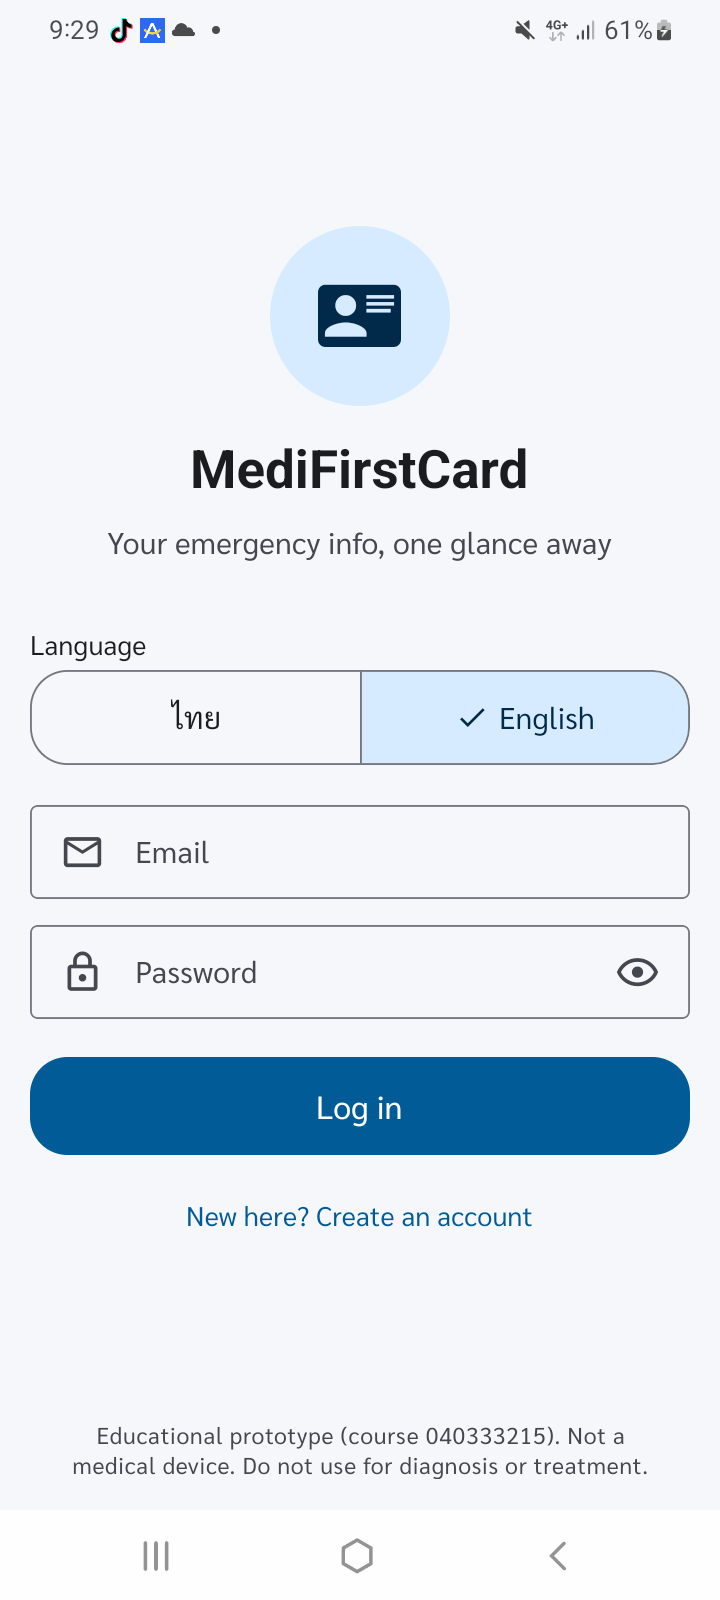
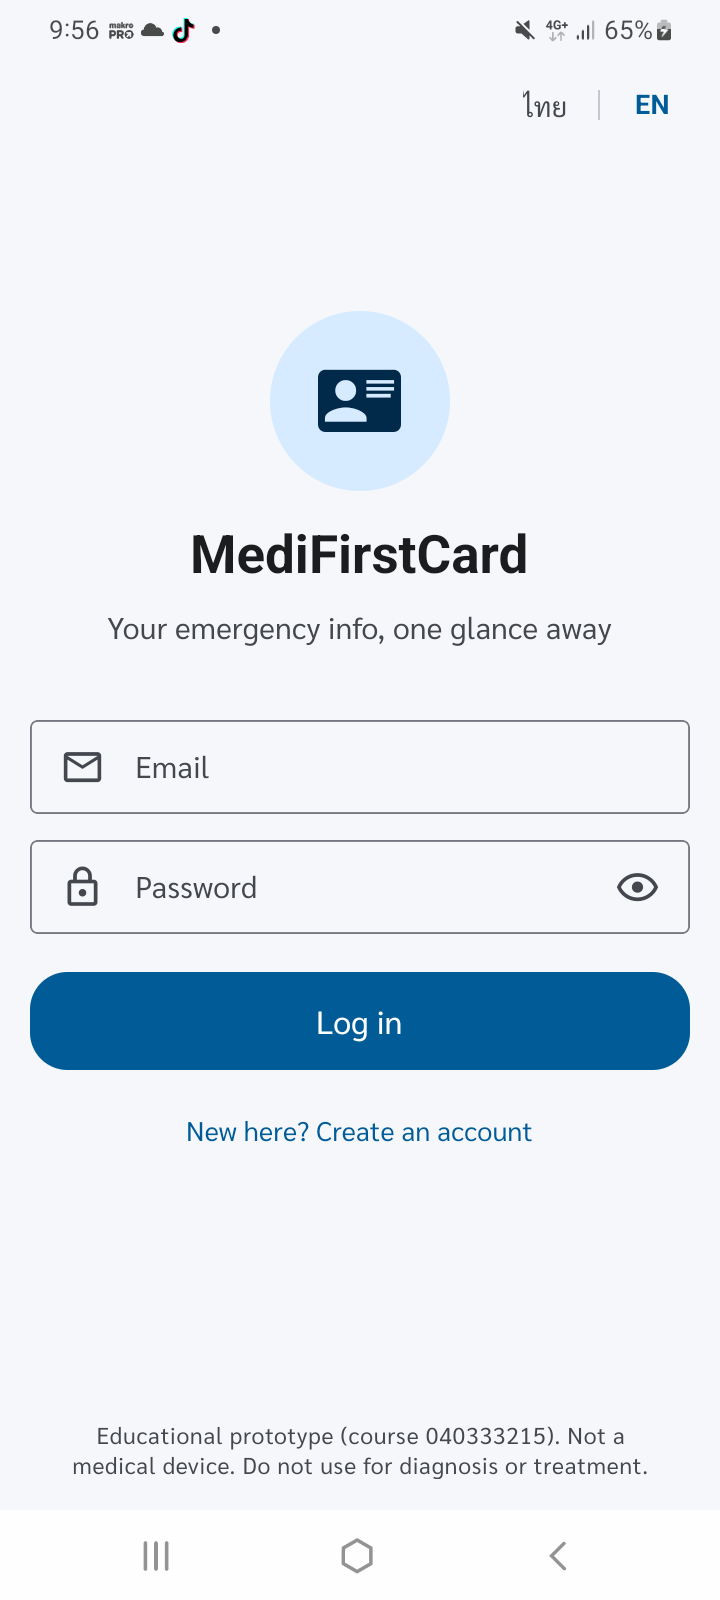
fix(mobile): login language switch is a small "ไทย | EN" text toggle at the top right; v1.0.14
The in-form segmented row still looked heavy. The switch is now two quiet
text buttons with a hairline divider on the 16 dp gutter, the active one
bold in the primary colour, 44 dp tall with hit slop. It lives in the
scroll content, so it moves with the form when the keyboard opens and
never covers the brand block.

diff --git a/apps/mobile/src/app/login.tsx b/apps/mobile/src/app/login.tsx
@@ -1,19 +1,22 @@
-import { useRef, useState } from "react";
-import { StyleSheet, View, type TextInput as RNTextInput } from "react-native";
+import { Fragment, useRef, useState } from "react";
+import { Pressable, StyleSheet, View, type TextInput as RNTextInput } from "react-native";
 import { router } from "expo-router";
-import { Button, HelperText, SegmentedButtons, Text, TextInput, useTheme } from "react-native-paper";
+import { Button, HelperText, Text, TextInput, useTheme } from "react-native-paper";
 import { MaterialCommunityIcons } from "@expo/vector-icons";
 import { useSafeAreaInsets } from "react-native-safe-area-context";
 import { useTranslation } from "react-i18next";
 import { Screen } from "../components/Screen";
 import { api, ApiError, errorKey } from "../lib/api";
 import { useSession } from "../store/session";
-import { setLanguage } from "../i18n";
+import { setLanguage, type Lang } from "../i18n";
 import { space, touch } from "../theme/tokens";
 
 const EMAIL_RE = /^[^\s@]+@[^\s@]+\.[^\s@]{2,}$/;
 
-/** Sign-in screen: brand block, language row, email + password, link to registration. No header (hidden by the root layout). */
+/** Each language named in itself, so the switch reads the same whichever one is active. */
+const LANGS: ReadonlyArray<{ code: Lang; label: string }> = [{ code: "th", label: "ไทย" }, { code: "en", label: "EN" }];
+
+/** Sign-in screen: brand block, email + password, link to registration; a small language toggle top right. No header (hidden by the root layout). */
 export default function Login() {
   const { t, i18n } = useTranslation();
   const theme = useTheme();
@@ -58,6 +61,33 @@ export default function Login() {
       style={{ ...styles.container, paddingTop: insets.top + space.xl, paddingBottom: insets.bottom + space.lg }}
       gap={space.lg}
     >
+      {/* Sits in the scroll content, so it moves with the form when the keyboard opens and never covers the brand. */}
+      <View style={[styles.langRow, { top: insets.top + space.sm }]}>
+        {LANGS.map((l, i) => {
+          const active = (i18n.language === "en" ? "en" : "th") === l.code;
+          return (
+            <Fragment key={l.code}>
+              {i > 0 ? <View style={[styles.langDivider, { backgroundColor: theme.colors.outlineVariant }]} /> : null}
+              <Pressable
+                onPress={() => void setLanguage(l.code)}
+                disabled={busy}
+                hitSlop={8}
+                accessibilityRole="button"
+                accessibilityState={{ selected: active }}
+                accessibilityLabel={`${t("more.language")}: ${l.label}`}
+                style={styles.langButton}
+              >
+                <Text
+                  variant="labelLarge"
+                  style={{ color: active ? theme.colors.primary : theme.colors.onSurfaceVariant, fontWeight: active ? "700" : "500" }}
+                >
+                  {l.label}
+                </Text>
+              </Pressable>
+            </Fragment>
+          );
+        })}
+      </View>
       <View style={styles.body}>
         <View style={styles.brand}>
           <View style={[styles.badge, { backgroundColor: theme.colors.primaryContainer }]}>
@@ -70,25 +100,6 @@ export default function Login() {
         </View>
 
         <View style={styles.form}>
-          {/* Same control as More > Language, so the two read as one thing; in the form so it scrolls with the keyboard. */}
-          <View style={styles.language}>
-            <Text variant="labelLarge">{t("more.language")}</Text>
-            <SegmentedButtons
-              value={i18n.language === "en" ? "en" : "th"}
-              onValueChange={(v) => void setLanguage(v === "en" ? "en" : "th")}
-              buttons={[
-                {
-                  value: "th", label: t("more.thai"), showSelectedCheck: true, disabled: busy, labelStyle: styles.segLabel,
-                  accessibilityLabel: `${t("more.language")}: ${t("more.thai")}`,
-                },
-                {
-                  value: "en", label: t("more.english"), showSelectedCheck: true, disabled: busy, labelStyle: styles.segLabel,
-                  accessibilityLabel: `${t("more.language")}: ${t("more.english")}`,
-                },
-              ]}
-            />
-          </View>
-
           <TextInput
             mode="outlined"
             label={t("auth.email")}
@@ -163,9 +174,9 @@ const styles = StyleSheet.create({
   container: { flexGrow: 1 },
   body: { flex: 1, justifyContent: "center", gap: space.xxl },
   brand: { alignItems: "center", gap: space.sm },
-  language: { gap: space.xs, marginBottom: space.sm },
-  // 16px label on a 30dp line + 2 x 9dp MD3 padding = 48dp segments; the tall line box also clears Thai ascenders.
-  segLabel: { fontSize: 16, lineHeight: touch.min - 18 },
+  langRow: { position: "absolute", right: space.lg, flexDirection: "row", alignItems: "center", gap: space.sm },
+  langButton: { minHeight: touch.min - 4, minWidth: 40, paddingHorizontal: space.xs, alignItems: "center", justifyContent: "center" },
+  langDivider: { width: 1, height: 16 },
   badge: { width: 96, height: 96, borderRadius: 48, alignItems: "center", justifyContent: "center", marginBottom: space.sm },
   appName: { fontWeight: "700", textAlign: "center" },
   tagline: { textAlign: "center" },

diff --git a/README.md b/README.md
@@ -103,7 +103,7 @@ cp apps/api/.env.example apps/api/.env   # set FIELD_ENC_KEY and JWT_SECRET (ins
 ```
 
 ## Install the app on a phone (no build tools needed)
-Download the signed APK from the latest [GitHub release](https://github.com/enchantedglycerin/MediFirstCard/releases) and install it (`adb install -r MediFirstCard-v1.0.13.apk`, or open the file on the phone and allow the install). Then open **More → Developer → Server URL** and enter the address of the API (the laptop's Wi-Fi IPv4 for a classroom demo, e.g. `http://192.168.1.20:3000`, or the Render URL once deployed).
+Download the signed APK from the latest [GitHub release](https://github.com/enchantedglycerin/MediFirstCard/releases) and install it (`adb install -r MediFirstCard-v1.0.14.apk`, or open the file on the phone and allow the install). Then open **More → Developer → Server URL** and enter the address of the API (the laptop's Wi-Fi IPv4 for a classroom demo, e.g. `http://192.168.1.20:3000`, or the Render URL once deployed).
 
 Release builds are signed with the team's own keystore (certificate `CN=MediFirstCard, OU=Course 040333215`, SHA-256 `07:41:48:86:B0:D6:CE:50:F7:79:51:D6:4B:C4:93:DF:1D:53:BD:A4:9E:D8:E9:50:F9:35:21:93:FF:22:2C:9D`). The keystore and its passwords live in `apps/mobile/credentials/` on the lead developer's machine and are **never committed**; the Expo config plugin `apps/mobile/plugins/withReleaseSigning.js` wires them into Gradle at prebuild and falls back to debug signing when the folder is absent (CI, other machines). Verify a downloaded APK with `apksigner verify --print-certs`.
 
